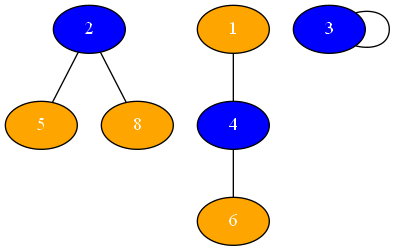
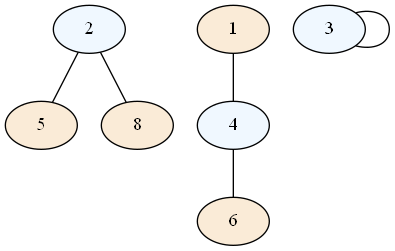
Add Colors (#6)

diff --git a/Welsh-Powell-Python/Graph.py b/Welsh-Powell-Python/Graph.py
@@ -54,9 +54,8 @@ class Graph:
     # Use Welsh Powell algorithm to draw Graph
     def getWelshPowellColoration(self):
         arrayColors = {}
-        for elem in colors.TABLEAU_COLORS:
-            splitItem = elem.split(':')
-            arrayColors[splitItem[1]] = []
+        for elem in colors.CSS4_COLORS:
+            arrayColors[elem] = []
         adjSortedBySize: dict = {}
         keyArray = sorted(self.adj.copy(), key=lambda k: len(self.adj.copy()[k]), reverse=True)
         for key in keyArray:
@@ -90,7 +89,7 @@ class Graph:
                 graph = pydot.Dot('my_graph', graph_type='graph')
                 for key in arrayColors.keys():
                     for elem in arrayColors.get(key):
-                        node = pydot.Node(elem, style='filled', fillcolor=key, label=elem, fontcolor='white')
+                        node = pydot.Node(elem, style='filled', fillcolor=key, label=elem, fontcolor='black')
                         graph.add_node(node)
                 for elem in adjTuple:
                     edge = pydot.Edge(elem[0], elem[1])

diff --git a/Welsh-Powell-Python/main.py b/Welsh-Powell-Python/main.py
@@ -16,4 +16,3 @@ graphTinyG.drawWelshPowellColoration('tinyG')
 graphMediumG = Graph('./FilesTxt/mediumG.txt')
 print(graphMediumG.__str__())
 graphMediumG.drawWelshPowellColoration('mediumG')
-
